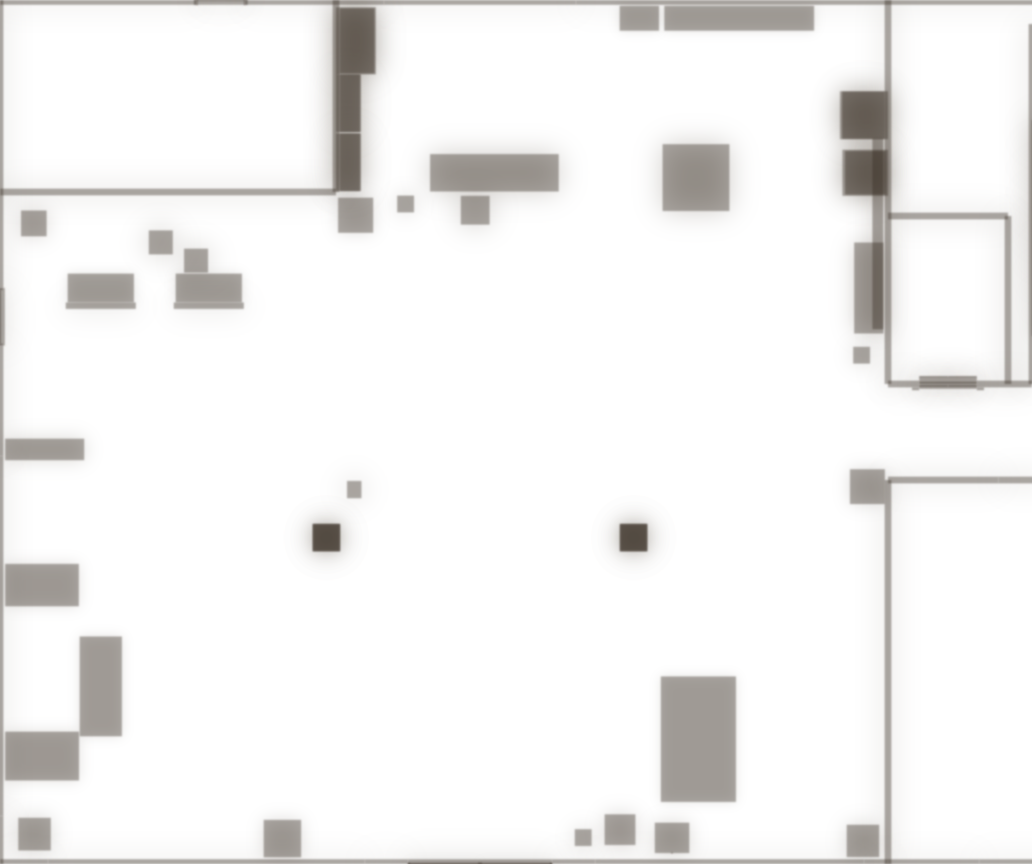
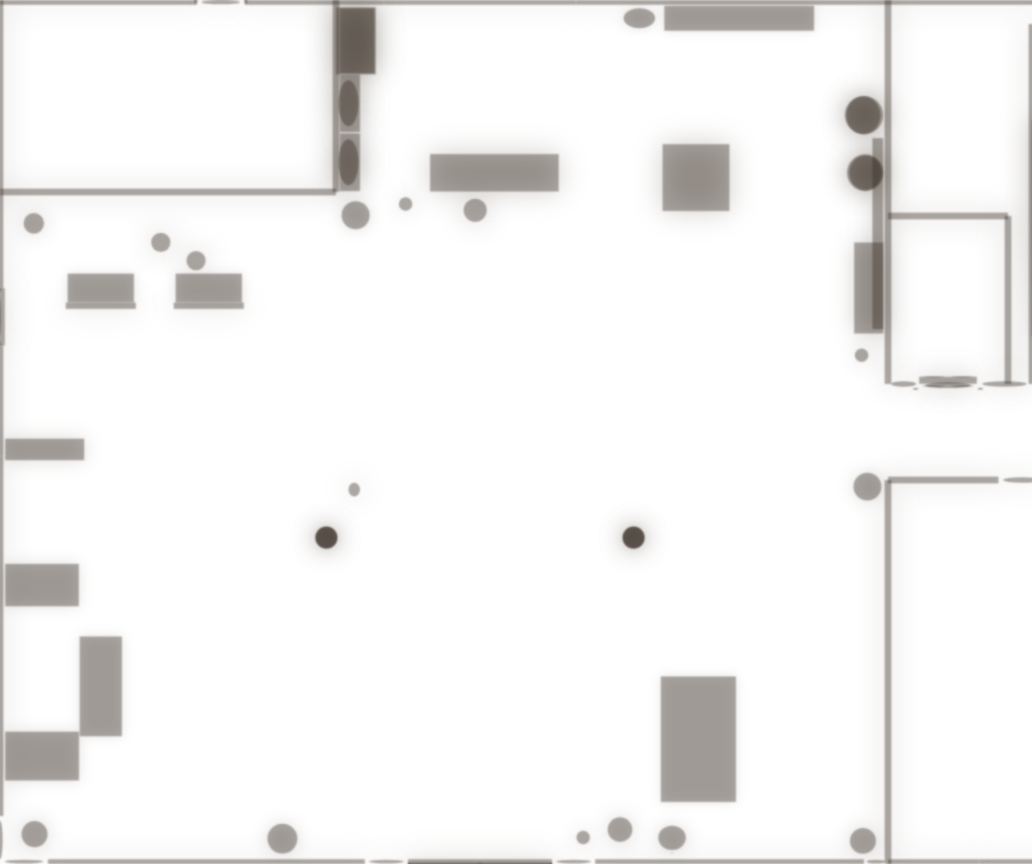
Lobby: coffee bar in use. Torn sugar packet and spilt grains, lids on the counter and floor, a crumpled napkin, coffee in the drip grates and drips under the taps

diff --git a/projects/roadside-inn/world/lived-in.js b/projects/roadside-inn/world/lived-in.js
@@ -9,7 +9,7 @@ import { economy } from '../quality.js';
 
 export function buildLivedIn(ctx) {
   const {
-    scene, lib, add, seeded, loose, cordGeometry, socket,
+    scene, lib, add, seeded, loose, cordGeometry, socket, dm,
     plugMat, R,
   } = ctx;
   // ---------- proof of life: outlets and cords, things guests left behind ----------
@@ -98,7 +98,7 @@ export function buildLivedIn(ctx) {
     for (const z of [-1.18, 1.18]) scuffs.push(onWall(0.3, 0.14, 6.413, 0.24, z, -Math.PI / 2), onWall(0.22, 0.1, 6.413, 0.33, z + (z > 0 ? 0.12 : -0.12), -Math.PI / 2));
     merged(scuffs, decalMat(scuffTex, 0.85), 'Scuffs');
     // coffee rings and a couple of drips by the dispensers (counter top 0.94; grates at x 2.0-2.6, z -8.6)
-    const ringTex = canvasTex(128, (g, S) => { g.strokeStyle = 'rgba(92,52,24,0.55)'; g.lineWidth = 3; g.beginPath(); g.arc(S / 2, S / 2, S * 0.36, 0.2, Math.PI * 1.85); g.stroke(); g.fillStyle = 'rgba(92,52,24,0.12)'; g.beginPath(); g.arc(S / 2, S / 2, S * 0.36, 0, Math.PI * 2); g.fill(); });
+    const ringTex = canvasTex(128, (g, S) => { g.strokeStyle = 'rgba(112,58,20,0.6)'; g.lineWidth = 3; g.beginPath(); g.arc(S / 2, S / 2, S * 0.36, 0.2, Math.PI * 1.85); g.stroke(); g.fillStyle = 'rgba(112,58,20,0.14)'; g.beginPath(); g.arc(S / 2, S / 2, S * 0.36, 0, Math.PI * 2); g.fill(); });
     const rings = [[2.3, -8.43, 0.085], [2.75, -8.38, 0.08], [3.05, -8.47, 0.07], [2.1, -8.36, 0.05], [2.92, -8.42, 0.04]].map(([x, z, d]) => flat(d, d, x, 0.9412, z, r() * 6));
     merged(rings, decalMat(ringTex, 0.9), 'Coffee rings');
     // and what the last guest left on it: a used stir stick and two sugar packets that missed the cubby (counter top about 0.941, where the rings sit).
@@ -106,6 +106,30 @@ export function buildLivedIn(ctx) {
     const stick = F.box(0.14, 0.0015, 0.005, F.mat('#d9c39a', { roughness: 0.8 }), 3.42, 0.9412, -8.36, scene); stick.rotation.y = 0.42; stick.name = 'Stir stick';
     const stain = F.box(0.035, 0.0003, 0.0055, F.mat('#6b4426', { roughness: 0.6 }), 3.42 - 0.052 * Math.cos(0.42), 0.9427, -8.36 + 0.052 * Math.sin(0.42), scene); stain.rotation.y = 0.42;   // the wet end
     for (const [x, z, ry, c] of [[3.6, -8.33, 0.9, '#f2b8c6'], [3.53, -8.43, -0.3, '#9cc6ea']]) { const k = F.box(0.05, 0.003, 0.034, F.mat(c, { roughness: 0.7 }), x, 0.9412, z, scene); k.rotation.y = ry; k.name = 'Sugar packet'; }
+    // The rest of a 10 p.m. coffee bar (station at x 3.4, z -8.6; counter top 0.941; Blender (bx, by) -> (3.4 + bx, -8.6 - by)):
+    // a sugar packet torn open with its strip beside it and the grains it shed fanning toward the edge, a lid that missed
+    // its cup and one on the floor, a crumpled napkin, coffee standing in the drip grates and drips in front of the taps.
+    const TOP = 0.9412, q = seeded(77);
+    const torn = F.box(0.038, 0.0025, 0.034, F.mat('#e2dccd', { roughness: 0.75 }), 4.08, TOP, -8.37, scene); torn.rotation.y = 0.35; torn.name = 'Torn sugar packet';
+    const strip = F.box(0.012, 0.002, 0.034, F.mat('#e2dccd', { roughness: 0.75 }), 4.15, TOP, -8.32, scene); strip.rotation.y = 1.4; strip.name = 'Packet strip';
+    { const n = economy ? 120 : 260, grain = new T.InstancedMesh(new T.BoxGeometry(0.0014, 0.0011, 0.0014), new T.MeshStandardMaterial({ color: '#ffffff', roughness: 0.2, emissive: '#ffffff', emissiveIntensity: 0.15 }), n), col = new T.Color();
+      for (let i = 0; i < n; i++) {   // most within a hand's width of the tear, a thin tail toward the counter edge
+        const far = q() < 0.25, a = (q() - 0.5) * 2.4 + (far ? 1.4 : 0), d = far ? 0.04 + q() * 0.12 : Math.sqrt(q()) * 0.05;
+        dm.position.set(4.1 + Math.cos(a) * d, TOP + 0.0005, -8.36 + Math.sin(a) * d * 0.7 + (far ? 0.02 : 0)); dm.rotation.set(q() * 3, q() * 3, q() * 3); const k = 0.7 + q() * 0.8; dm.scale.set(k, k, k); dm.updateMatrix();
+        grain.setMatrixAt(i, dm.matrix); grain.setColorAt(i, col.set(q() < 0.12 ? '#c9a46a' : '#ffffff'));   // a few raw-sugar grains from the bin next door
+      }
+      grain.name = 'Spilt sugar'; scene.add(grain); }
+    const lidMat = F.mat('#1c1c1e', { roughness: 0.35, side: T.DoubleSide }), lidGeo = new T.LatheGeometry([[0, 0.012], [0.03, 0.012], [0.034, 0.0105], [0.039, 0.007], [0.043, 0.0065], [0.0435, 0.002], [0.042, 0]].map(([x, y]) => new T.Vector2(x, y)), 28);   // the dome lid's profile (sip ridge, rim), as in props.py
+    { const l = new T.Mesh(lidGeo, lidMat); l.position.set(3.72, TOP, -8.33); l.name = 'Cup lid'; scene.add(l); }
+    { const l = new T.Mesh(lidGeo, lidMat); l.position.set(2.95, 0.0102, -8.02); l.rotation.set(0.05, 0, 0.04); l.name = 'Cup lid (floor)'; scene.add(l); }   // dropped, resting on its rim lip
+    { const g = new T.IcosahedronGeometry(0.028, 2), p = g.attributes.position, v = new T.Vector3();
+      for (let i = 0; i < p.count; i++) { v.fromBufferAttribute(p, i); const k = 0.7 + 0.5 * Math.abs(Math.sin(v.x * 157 + v.y * 311 + v.z * 113)); p.setXYZ(i, v.x * k, v.y * k * 0.55, v.z * k); }
+      g.computeVertexNormals(); const nap = new T.Mesh(g, F.mat('#efeee9', { roughness: 0.95 })); nap.position.set(4.5, TOP + 0.013, -8.34); nap.name = 'Crumpled napkin'; scene.add(nap); }
+    // coffee standing in the drip grates (between the slots) and drips on the counter under each tap
+    const filmTex = canvasTex(128, blotches(41, 30, '58,30,12', 0.5, 8, 26));
+    merged([2.02, 2.32, 2.62].map(x => flat(0.16, 0.19, x, 0.9505, -8.62, 0)), decalMat(filmTex, 0.85), 'Drip-grate coffee');
+    const dripTex = canvasTex(128, blotches(43, 7, '70,38,16', 0.7, 3, 9));
+    merged([2.02, 2.32, 2.62].map((x, i) => flat(0.07, 0.07, x + (q() - 0.5) * 0.02, TOP, -8.47 + i * 0.006, q() * 6)), decalMat(dripTex, 0.9), 'Tap drips');
   }
 }
 

diff --git a/projects/roadside-inn/REALISM.md b/projects/roadside-inn/REALISM.md
@@ -412,3 +412,7 @@ with `intent.js`), applied to the Rocketbox rigs by `people.js`.
 - **Never put a decal on something that moves, or past an edge.** Milk landed on a bar-stool seat and hung in the air
   past it. Loose props are skipped (the liquid runs to the floor below); on counters the sheet shrinks until four rim
   points find the same top.
+- **White on white disappears; a puck is not a lid.** A torn sugar packet in counter white and 1 mm grains vanished at
+  arm's length; packets are a shade warmer than the counter and grains catch a little emission so they glint. A
+  cylinder lid read as a hockey puck: use the lid's real profile (lathe, double-sided). Coffee rings in a dull
+  brown-grey read as grime; keep them warm.
